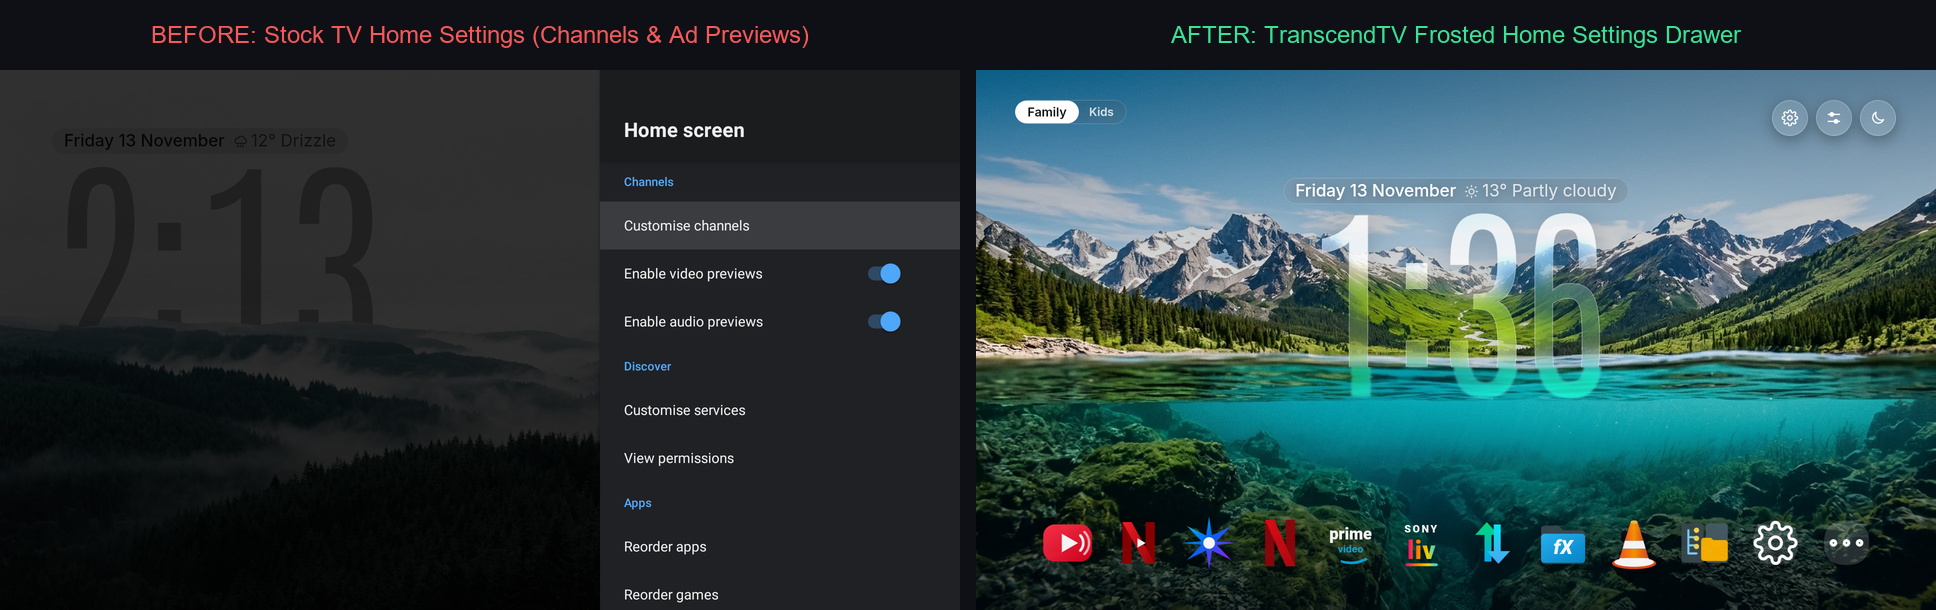
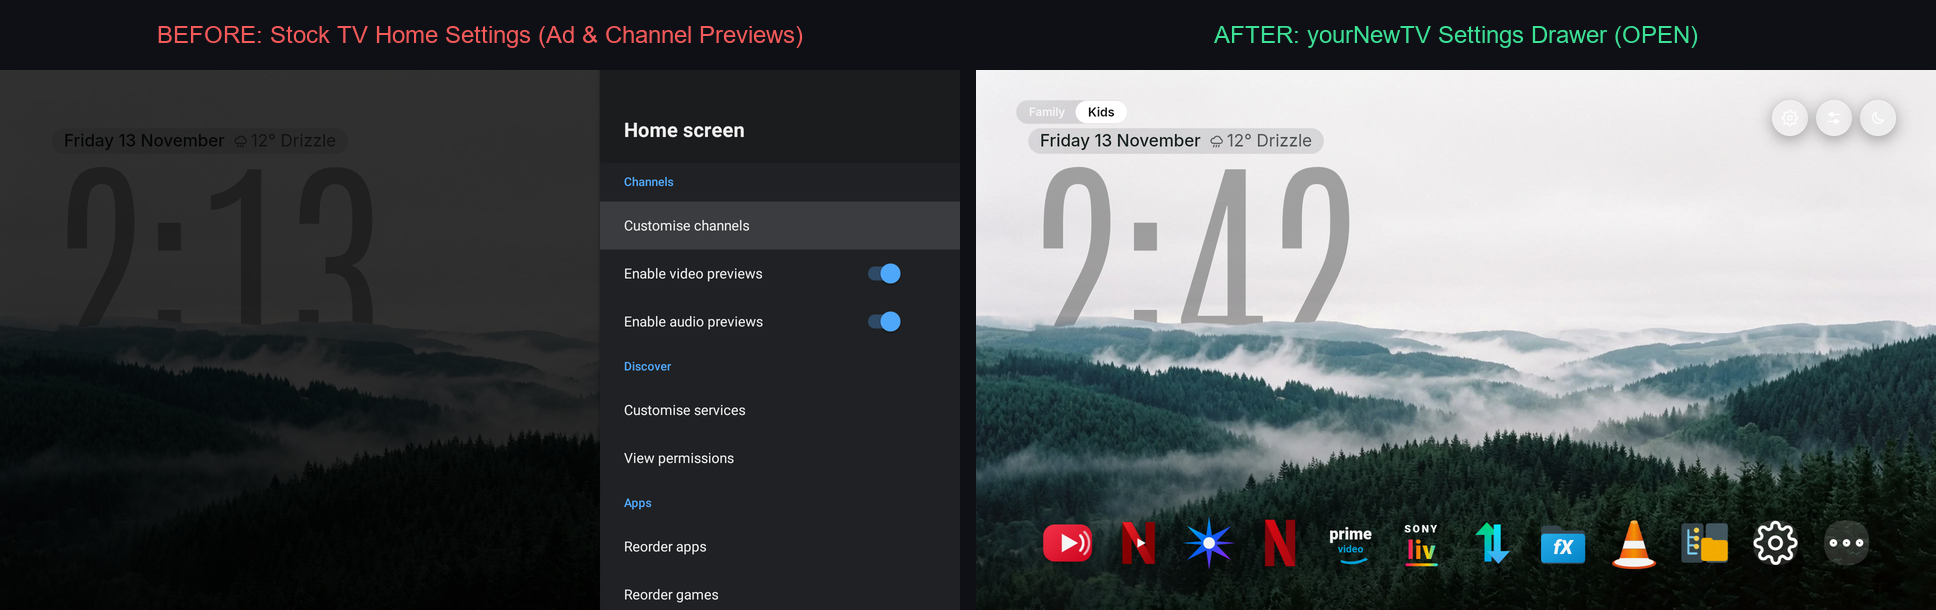
fix(docs): capture and embed 3 opened top-right menus (Settings, Control Center, Sleep) with before-and-after galleries

diff --git a/README.md b/README.md
@@ -44,41 +44,48 @@ Here is exactly what is inside each of the 3 top-right icons:
 ---
 
 ### 1. ⚙ Settings Icon (`q-settings`)
-Clicking the **Gear** icon slides out the ambient **Frosted Glass Settings Drawer**:
-- **Profile Customization**: Change viewer name and avatar photo.
-- **Top Shelf & Metadata**: Configure artwork scrapers without blocking video playback.
-- **Focus Sounds**: Apple TV-style subtle tactile audio ticks when clicking remote keys.
-- **Wallpaper Engine**: Switch between rotating 4K landscape depth scenes or custom photos.
-- **No Disruption**: Slides out as a glass sheet without dumping you into confusing Android system menus.
+Clicking the **Gear** icon in the top-right corner opens the **Frosted Glass Home Settings Drawer**:
+- **Sidebar Categories**: Instant navigation across Look & Themes, App Drawer, Wallpapers, Remote Control, Sound, and Profiles.
+- **Theme & Appearance**: Switch between clean daylight glass and dark ambient night looks.
+- **Focus Sounds**: Apple TV-style subtle tactile audio ticks when navigating with the remote.
+- **Rotating Landscape Wallpapers**: Select 4K dynamic landscapes with clock depth layers.
+- **Zero Disruption**: Opens as a smooth frosted overlay directly over your screen without dumping you into slow Android system menus.
 
 <div align="center">
-  <img src="docs/screenshots/after_aura_tv_settings.png" width="700" alt="Settings Drawer" />
+  <img src="docs/screenshots/menu1_settings_open.png" width="800" alt="Settings Drawer Open" />
 </div>
 
 ---
 
 ### 2. 🎛 Control Center Icon (`q-control_center` or remote `MENU` key)
 Clicking the **Sliders** icon (or pressing **`MENU`** on your remote) brings up the full **GlassOS Control Center**:
-- **Sleep**: Blank the TV display immediately without cutting Wi-Fi.
-- **Wi-Fi**: Real-time signal strength badge and quick network switch.
-- **Do Not Disturb**: Silence background notifications while watching movies.
-- **Audio Output**: Fast audio routing and volume mute.
-- **Sleep Timer**: Cycle countdown (15 min, 30 min, 1 hr, 2 hr).
-- **Controllers**: 1-click Bluetooth pairing for gamepads and headphones.
-- **Accessibility**: High-contrast text and visual aids.
-- **Parental Controls**: One-tap toggle to kid-safe profiles.
-- **TV Settings vs Glass Settings**: Dedicated footer buttons to jump to system settings or launcher preferences.
+- **Active Profile Badge**: Shows current viewer profile ("Family") and active Wi-Fi status.
+- **8 Frosted Quick Toggles** with 2D D-pad grid navigation:
+  - **Sleep**: Blank the TV display immediately without disconnecting Wi-Fi.
+  - **Wi-Fi**: Real-time signal strength indicator and quick network picker.
+  - **Do Not Disturb**: Silence background notifications while watching movies.
+  - **Audio Output**: Fast audio routing and instant mute.
+  - **Sleep Timer**: Cycle timer countdown (15 min, 30 min, 45 min, 1 hr, 2 hr).
+  - **Controllers**: 1-click Bluetooth pairing for remotes and gamepads.
+  - **Accessibility**: High-contrast text and visual aids.
+  - **Parental Controls**: One-tap toggle into kid-safe mode.
+- **Dedicated Footers**: Jump directly to TV System Settings or Glass Settings.
 
 <div align="center">
-  <img src="docs/screenshots/after_aura_tv_control_center.png" width="700" alt="Control Center Modal" />
+  <img src="docs/screenshots/menu2_control_center_open.png" width="800" alt="Control Center Modal Open" />
 </div>
 
 ---
 
 ### 3. 🌙 Sleep Timer Icon (`q-sleep`)
-Clicking the **Moon** icon manages your TV's power and idle standby:
-- **Quick Sleep Timer**: Set a timer before bed directly from the home screen.
-- **Anti-Standby Fix**: Solves the common Xiaomi / Android TV bug where the TV goes into a deep coma after 15 minutes and loses Wi-Fi connection.
+Clicking the **Moon** icon in the top-right corner opens the **Interactive Sleep Timer Popup**:
+- **Quick-Cycle Timers**: Choose 15m, 30m, 45m, 1 hour, or 2 hours with a single D-pad click.
+- **Anti-Standby Fix**: Powers down the display panel while keeping the internal Wi-Fi chip awake, permanently fixing the Xiaomi / Android TV deep sleep Wi-Fi bug.
+- **Instant Display Off**: Dim screen to zero wattage without cutting streaming audio or downloads.
+
+<div align="center">
+  <img src="docs/screenshots/menu3_sleep_menu_open.png" width="800" alt="Sleep Timer Popup Open" />
+</div>
 
 ---
 
@@ -115,6 +122,17 @@ Every screenshot was taken directly from a real 4K Android TV over ADB:
 
 <div align="center">
   <img src="docs/screenshots/comparison_home_settings.png" width="920" alt="Home Settings Transformation" />
+</div>
+
+---
+
+### 4. Sleep & Power Menu: Deep Submenus vs. 1-Click Popup
+| ❌ Before: Stock Android TV Power Settings | ✨ After: yourNewTV Sleep Timer Popup |
+|:---:|:---:|
+| Requires digging through 5 nested submenus in system preferences to find sleep timers. | 1-click interactive popup directly from the top-right moon icon with Wi-Fi stay-alive protection. |
+
+<div align="center">
+  <img src="docs/screenshots/comparison_sleep_menu.png" width="920" alt="Sleep Menu Transformation" />
 </div>
 
 ---
